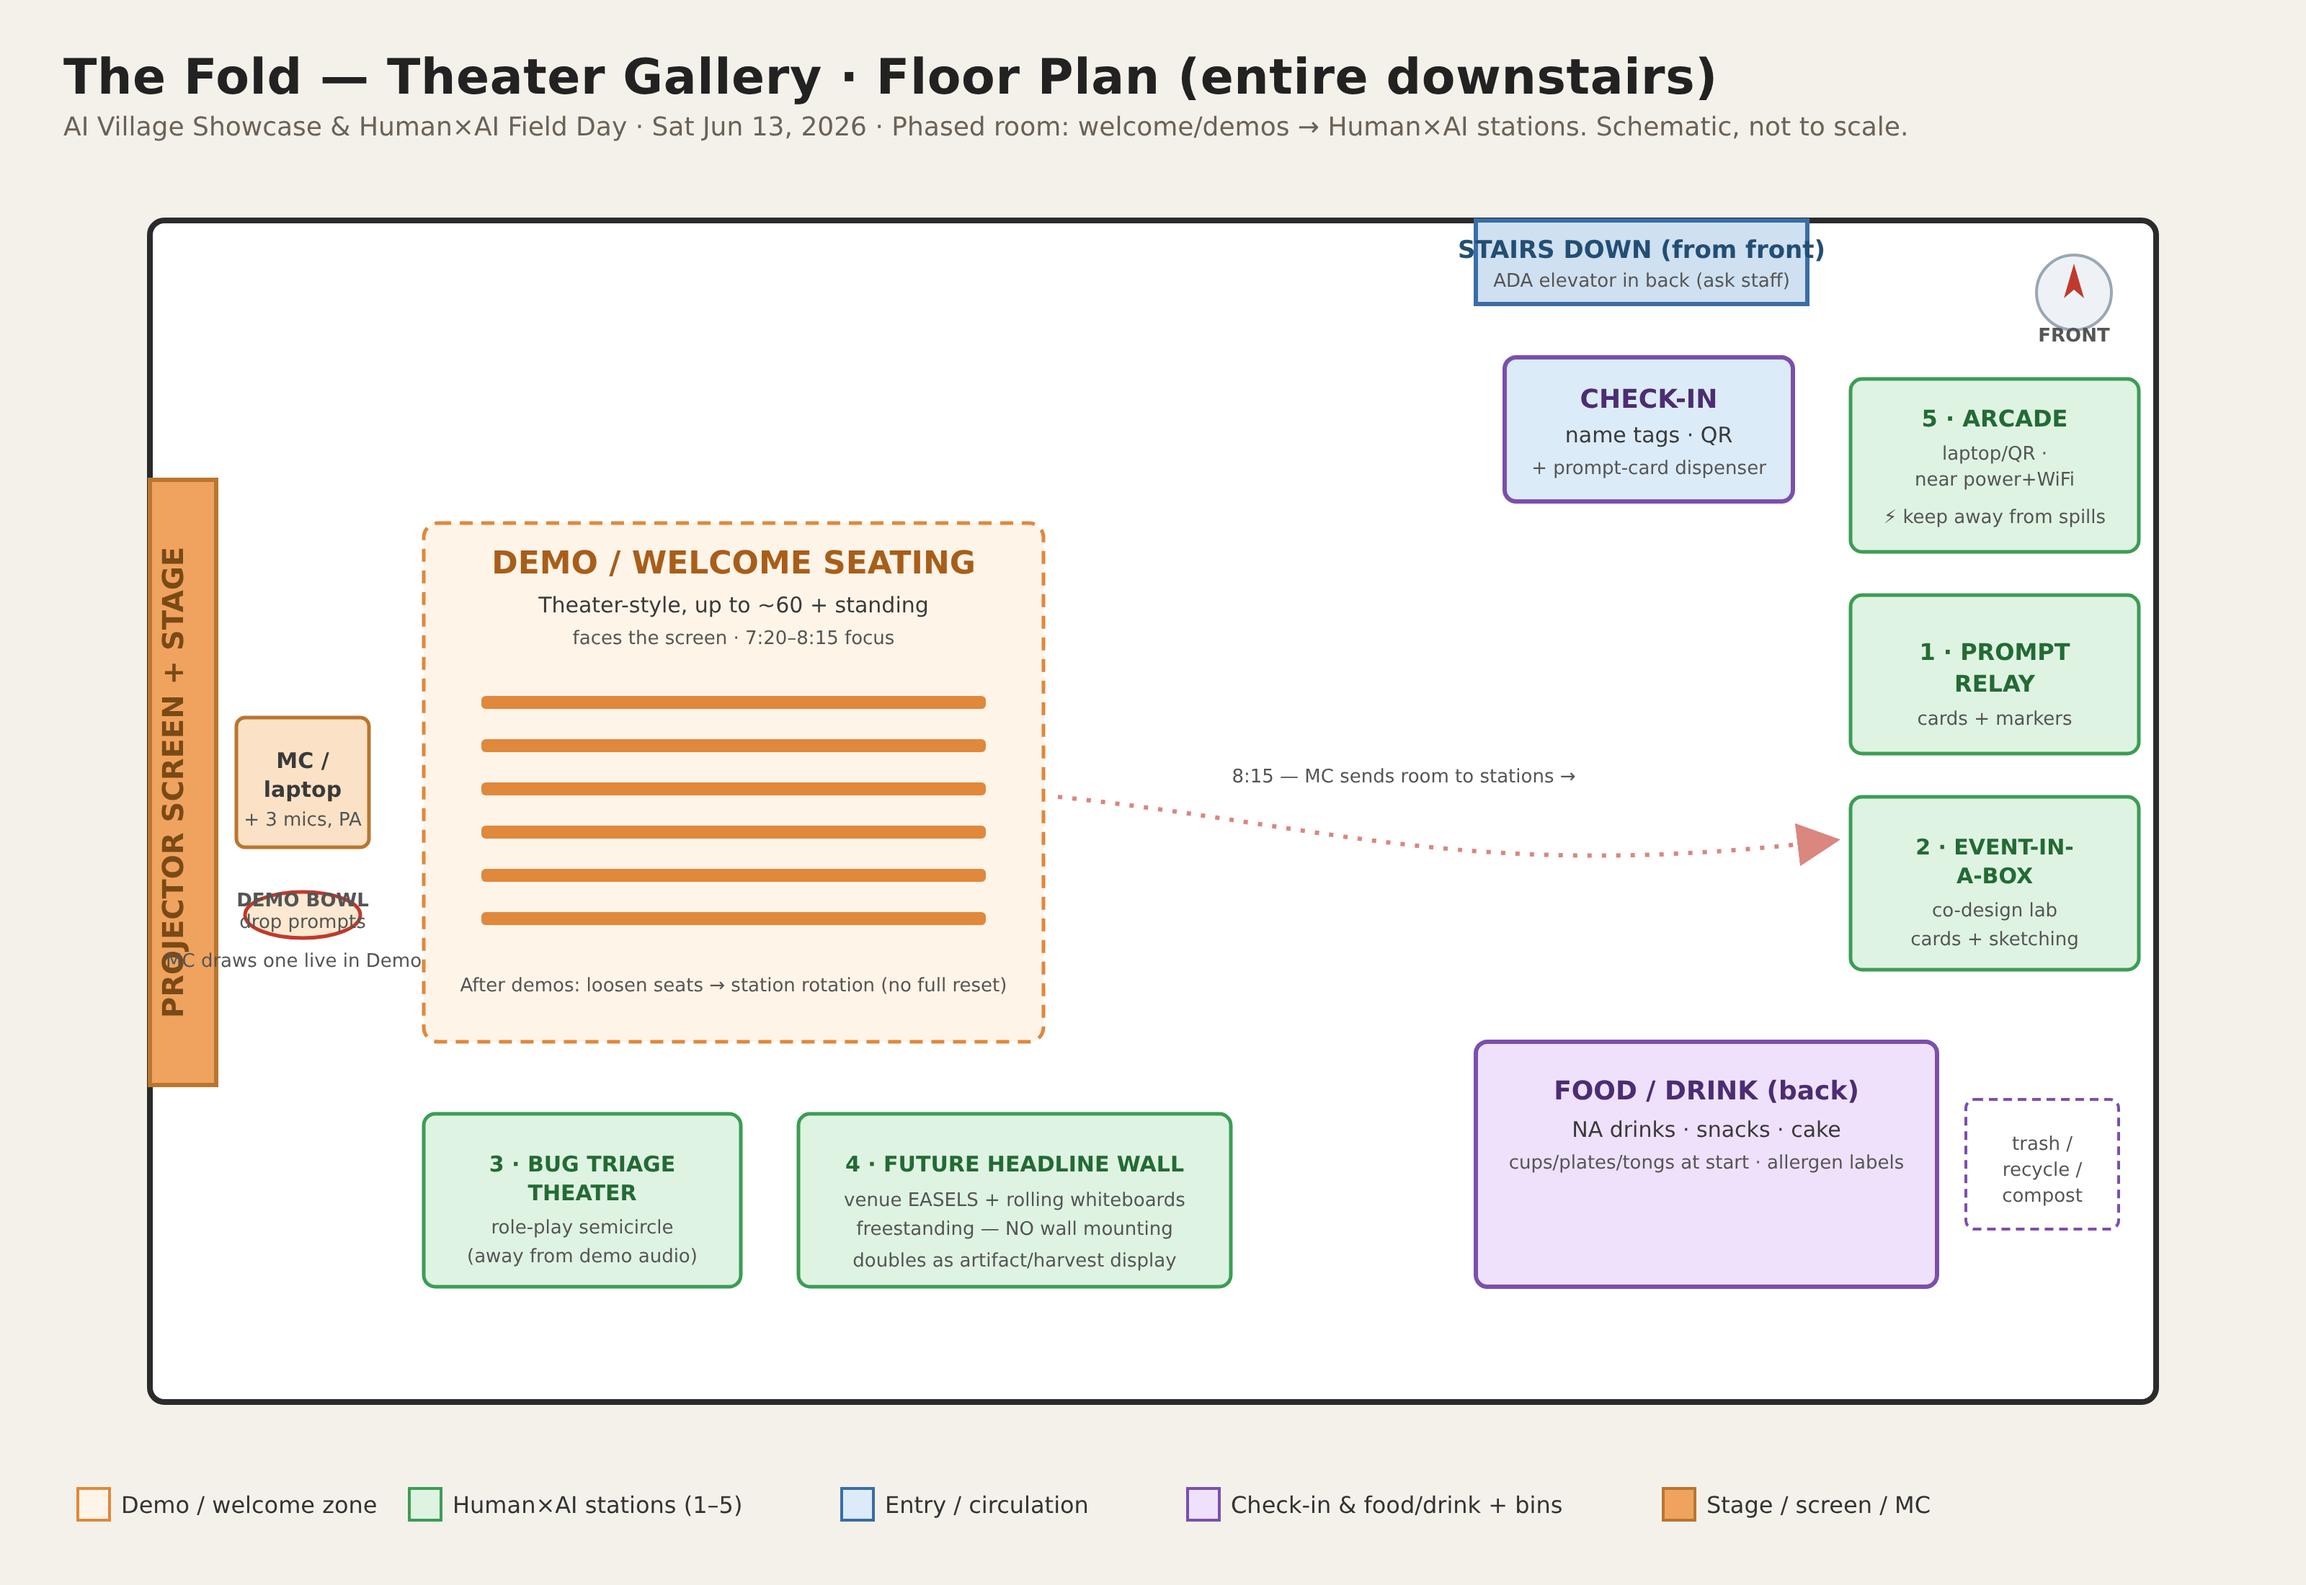
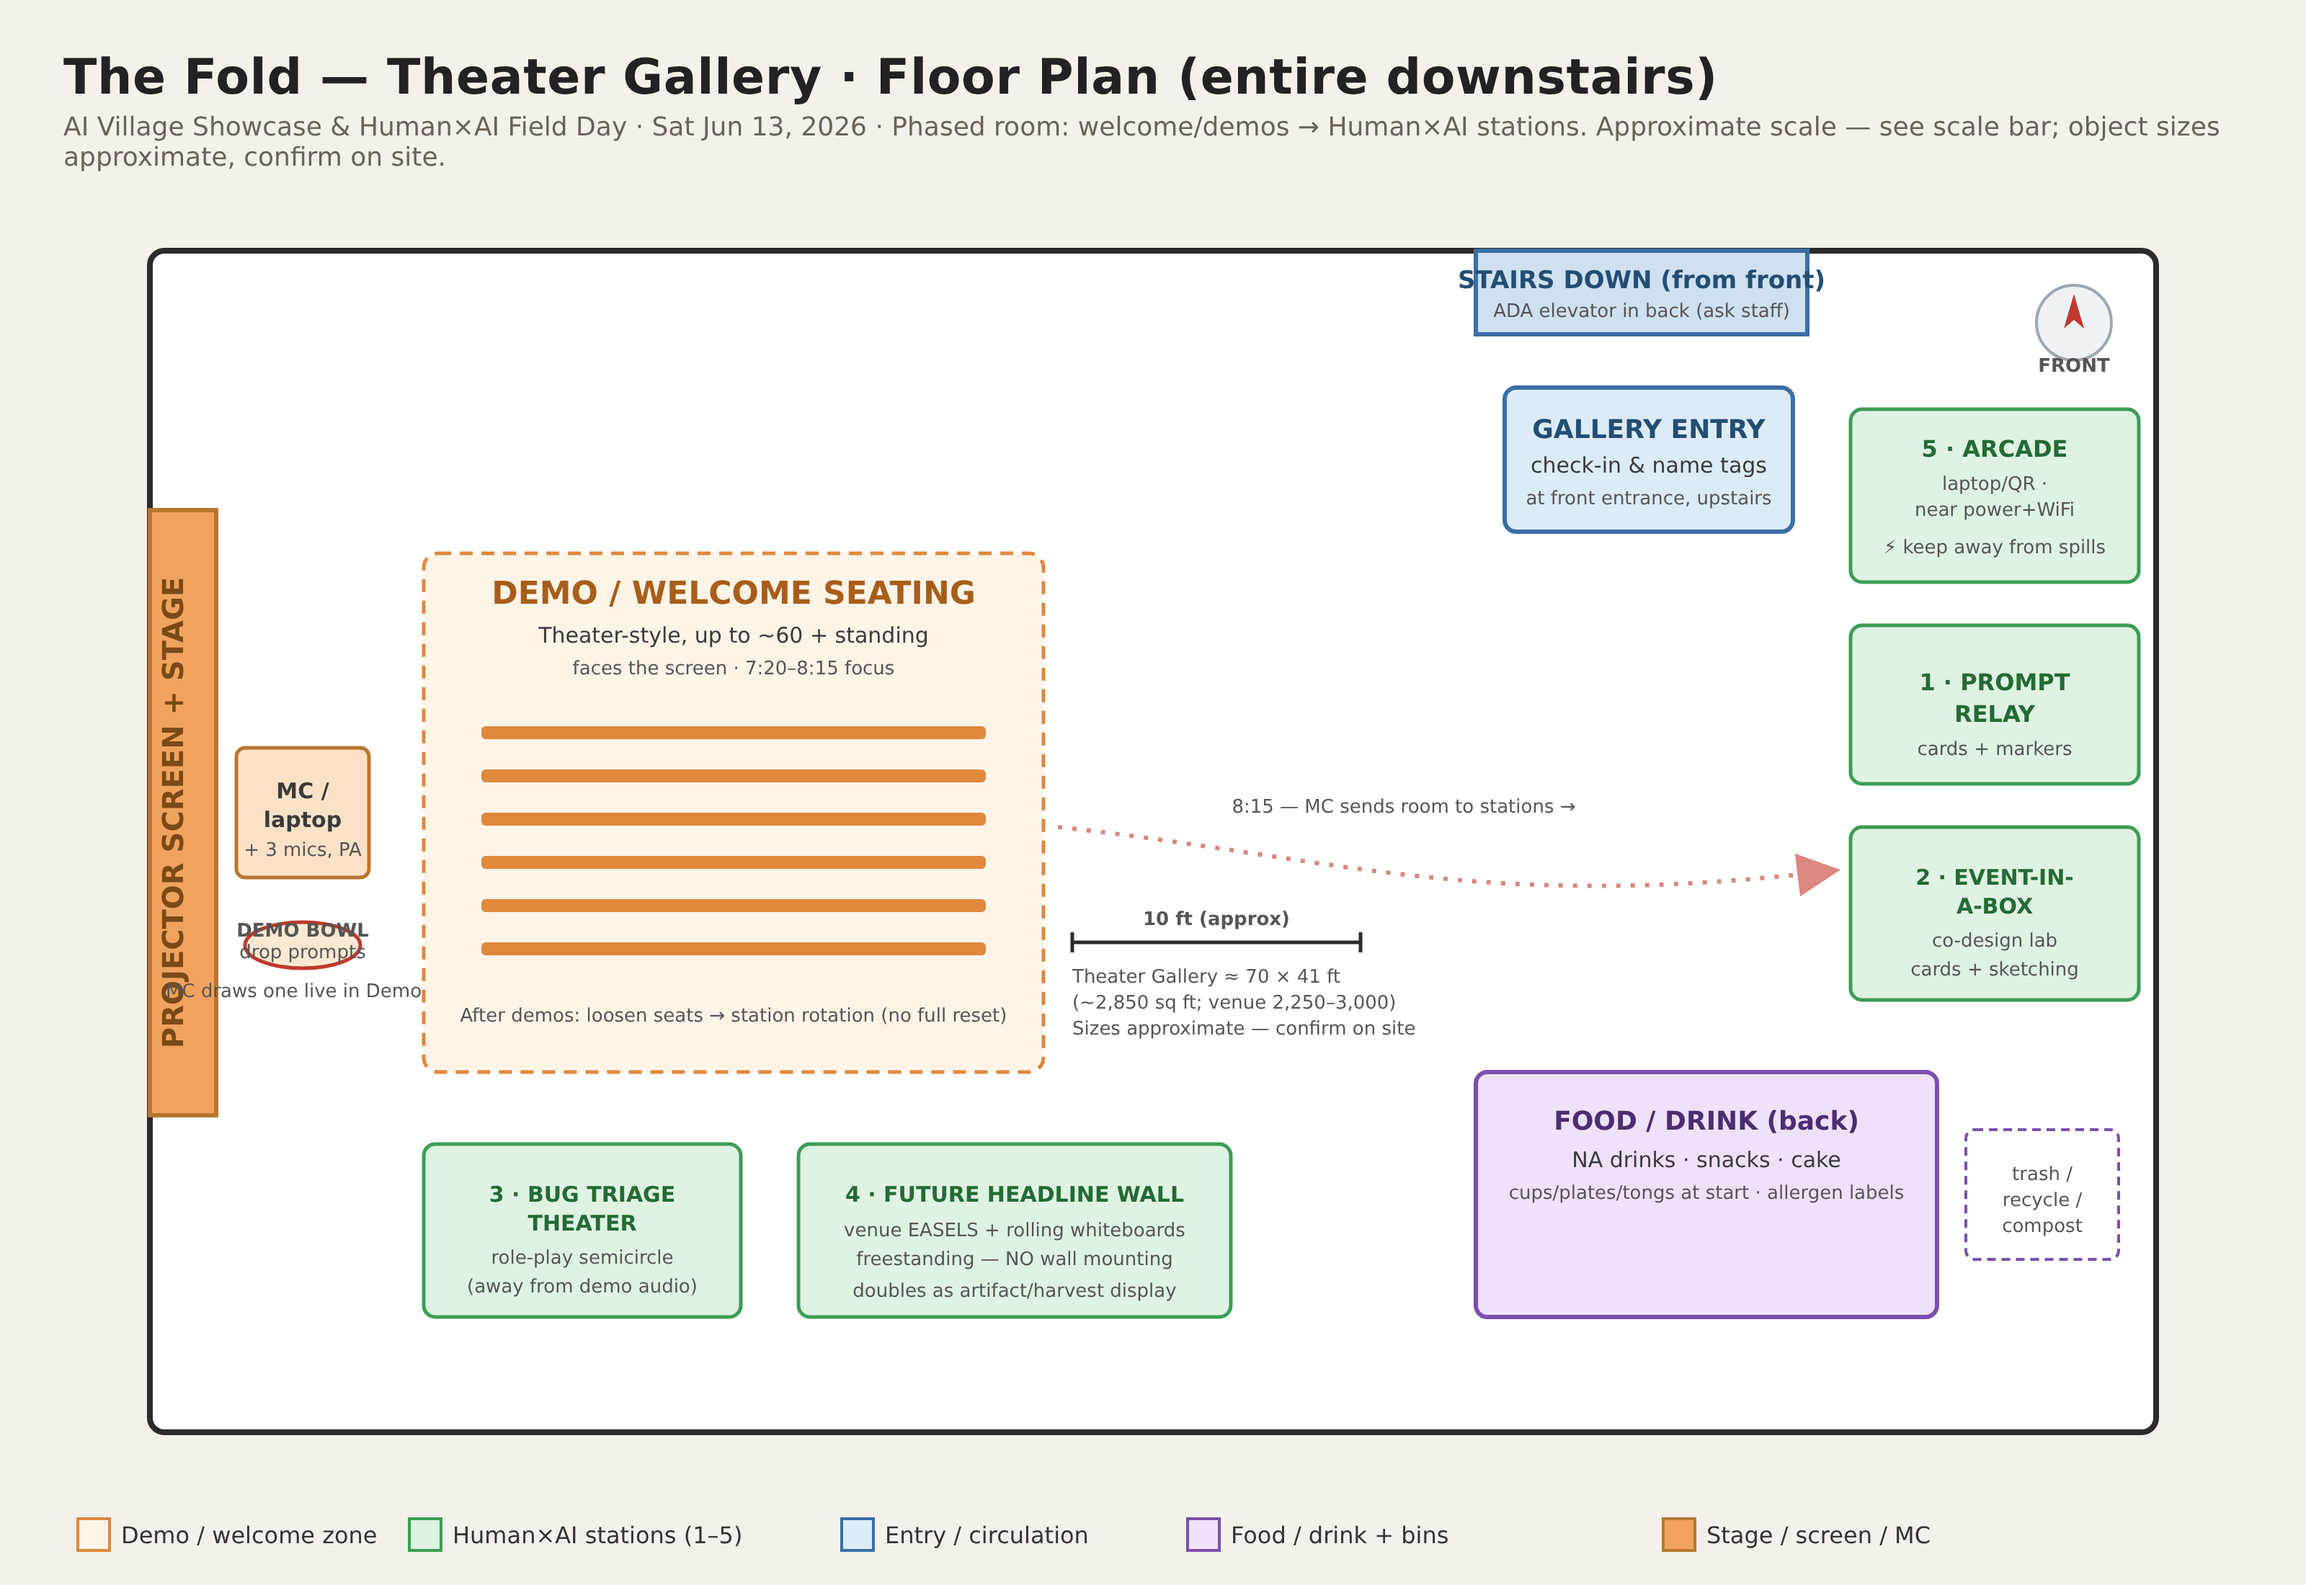
floorplan: relabel entry to match upstairs check-in (Fable #4) + add approximate scale/dimensions

diff --git a/demo-assets/venue-floorplan.html b/demo-assets/venue-floorplan.html
@@ -17,7 +17,7 @@
 <body>
 <div class="wrap">
   <h1>The Fold — Theater Gallery · Floor Plan (entire downstairs)</h1>
-  <p class="sub">AI Village Showcase &amp; Human×AI Field Day · Sat Jun 13, 2026 · Phased room: welcome/demos → Human×AI stations. Schematic, not to scale.</p>
+  <p class="sub">AI Village Showcase &amp; Human×AI Field Day · Sat Jun 13, 2026 · Phased room: welcome/demos → Human×AI stations. Approximate scale — see scale bar; object sizes approximate, confirm on site.</p>
   <svg width="1512" height="900" viewBox="0 0 1512 900">
     <!-- room outline -->
     <rect x="60" y="40" width="1392" height="820" rx="10" fill="#ffffff" stroke="#2b2b2b" stroke-width="4"/>
@@ -66,10 +66,10 @@
     <text x="1095" y="86" text-anchor="middle" class="tiny" fill="#234e74">ADA elevator in back (ask staff)</text>
 
     <!-- CHECK-IN just inside entry -->
-    <rect x="1000" y="135" width="200" height="100" rx="8" fill="#dcebf8" stroke="#7b4fae" stroke-width="3"/>
-    <text x="1100" y="170" text-anchor="middle" class="zlabel" font-size="18" fill="#4c2d73">CHECK-IN</text>
-    <text x="1100" y="194" text-anchor="middle" class="small">name tags · QR</text>
-    <text x="1100" y="216" text-anchor="middle" class="tiny">+ prompt-card dispenser</text>
+    <rect x="1000" y="135" width="200" height="100" rx="8" fill="#dcebf8" stroke="#3a6ea5" stroke-width="3"/>
+    <text x="1100" y="170" text-anchor="middle" class="zlabel" font-size="18" fill="#234e74">GALLERY ENTRY</text>
+    <text x="1100" y="194" text-anchor="middle" class="small">check-in &amp; name tags</text>
+    <text x="1100" y="216" text-anchor="middle" class="tiny">at front entrance, upstairs</text>
 
     <!-- STATIONS: green, right side + bottom -->
     <!-- Station 5 Arcade (high power) top-right area -->
@@ -124,6 +124,16 @@
     </defs>
     <path d="M690,440 C880,460 980,500 1230,470" fill="none" stroke="#c0392b" stroke-width="3" stroke-dasharray="3 7" marker-end="url(#arrow)" opacity=".6"/>
     <text x="930" y="430" text-anchor="middle" class="tiny" fill="#c0392b">8:15 — MC sends room to stations →</text>
+    <!-- APPROXIMATE SCALE BAR + dimensions (~20 px/ft, derived from venue sq ft) -->
+    <g>
+      <line x1="700" y1="520" x2="900" y2="520" stroke="#2b2b2b" stroke-width="2.5"/>
+      <line x1="700" y1="513" x2="700" y2="527" stroke="#2b2b2b" stroke-width="2.5"/>
+      <line x1="900" y1="513" x2="900" y2="527" stroke="#2b2b2b" stroke-width="2.5"/>
+      <text x="800" y="508" text-anchor="middle" class="tiny" font-weight="700">10 ft (approx)</text>
+      <text x="700" y="548" class="tiny" fill="#333">Theater Gallery ≈ 70 × 41 ft</text>
+      <text x="700" y="566" class="tiny" fill="#333">(~2,850 sq ft; venue 2,250–3,000)</text>
+      <text x="700" y="584" class="tiny" fill="#333">Sizes approximate — confirm on site</text>
+    </g>
   </svg>
 
   <!-- legend -->
@@ -132,7 +142,7 @@
       <rect x="10" y="14" width="22" height="22" fill="#fff4e8" stroke="#e0883c" stroke-width="2"/><text x="40" y="31">Demo / welcome zone</text>
       <rect x="240" y="14" width="22" height="22" fill="#dff3e2" stroke="#3c9d54" stroke-width="2"/><text x="270" y="31">Human×AI stations (1–5)</text>
       <rect x="540" y="14" width="22" height="22" fill="#dcebf8" stroke="#3a6ea5" stroke-width="2"/><text x="570" y="31">Entry / circulation</text>
-      <rect x="780" y="14" width="22" height="22" fill="#efe1fb" stroke="#7b4fae" stroke-width="2"/><text x="810" y="31">Check-in &amp; food/drink + bins</text>
+      <rect x="780" y="14" width="22" height="22" fill="#efe1fb" stroke="#7b4fae" stroke-width="2"/><text x="810" y="31">Food / drink + bins</text>
       <rect x="1110" y="14" width="22" height="22" fill="#f0a35e" stroke="#b9762f" stroke-width="2"/><text x="1140" y="31">Stage / screen / MC</text>
     </g>
   </svg>
